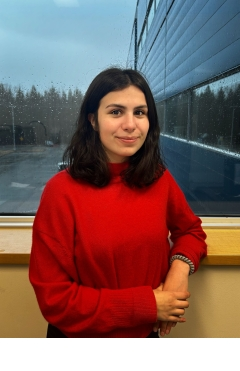
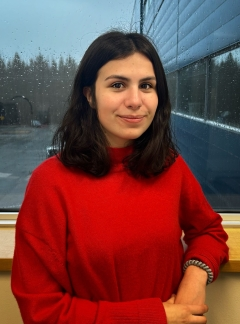
new funding

diff --git a/content/about.fr.md b/content/about.fr.md
@@ -102,7 +102,7 @@ je crois que cela apporte toujours des perspectives utiles. En ce qui concerne m
 recherche, le cancer est un sujet que je trouve vraiment fascinant, et j'ai
 toujours envie d'en apprendre davantage.
 
-![Tony-Carlo Blanchette](/img/tony.jpg "Tony dans le labo")
+![Tony-Carlo Blanchette](/img/tony_small.jpg "Tony dans le labo")
 
 ### Tony-Carlo Blanchette
 #### Étudiant au B.Sc. en génie biotechnologique
@@ -120,7 +120,7 @@ Nouvellement initié au domaine de la recherche, je trouve dans ce secteur l’o
 contribuer à l’avancée des connaissances sur le cancer, en laissant une trace grâce à des
 projets concrets menés en collaboration avec des équipes pluridisciplinaires.
 
-![Sarah Macrides](/img/sarah.jpg "Sarah dans le labo")
+![Sarah Macrides](/img/sarah_small.jpg "Sarah dans le labo")
 
 ### Sarah Macrides
 #### Étudiante en Master en modélisation et statistique (Université de Rouen Normandie)

diff --git a/content/_index.en.md b/content/_index.en.md
@@ -24,6 +24,8 @@ cancer. We also believe that the role of RNA-binding proteins is heavily underes
 immune cell development and function.**
 
 ### News
+03/2025 Our project with Dr. Stéphanie Vairy is awarded a C17-Childhood Cancer Canada grant
+for the development of personalized vaccines agains childhood sarcoma  
 03/2025 Sarah joins the lab for a 5-month M1 internship  
 03/2025 Emma presents a poster at the D2R meeting  
 02/2025 Our collaborative project with Pr. Lee-Hwa Tai is awarded a CCS-Hecht Foundation DIG
